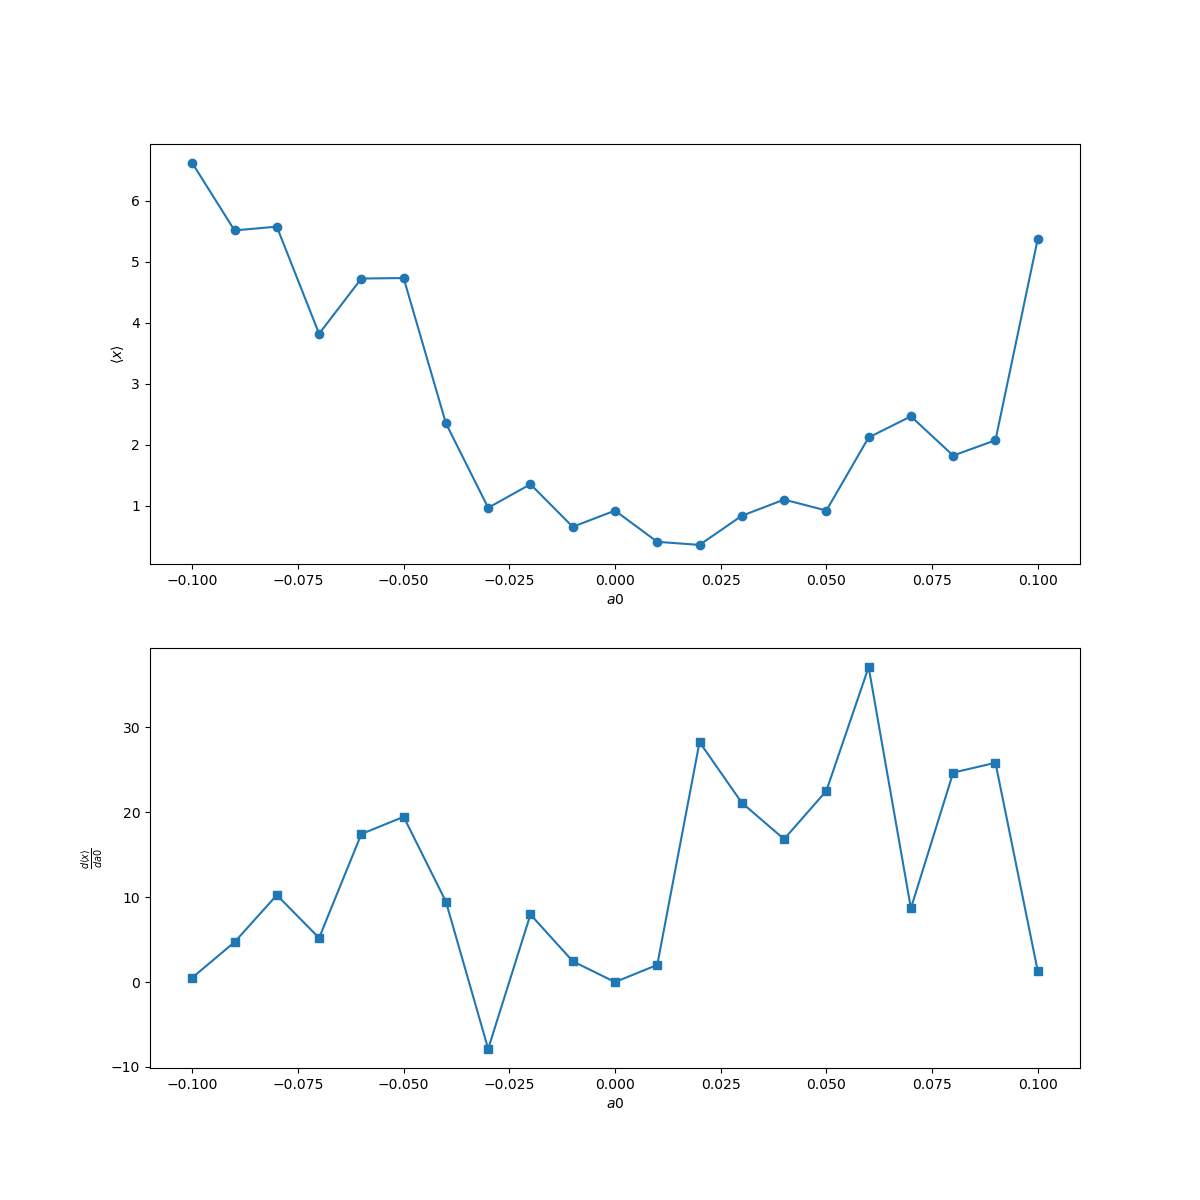
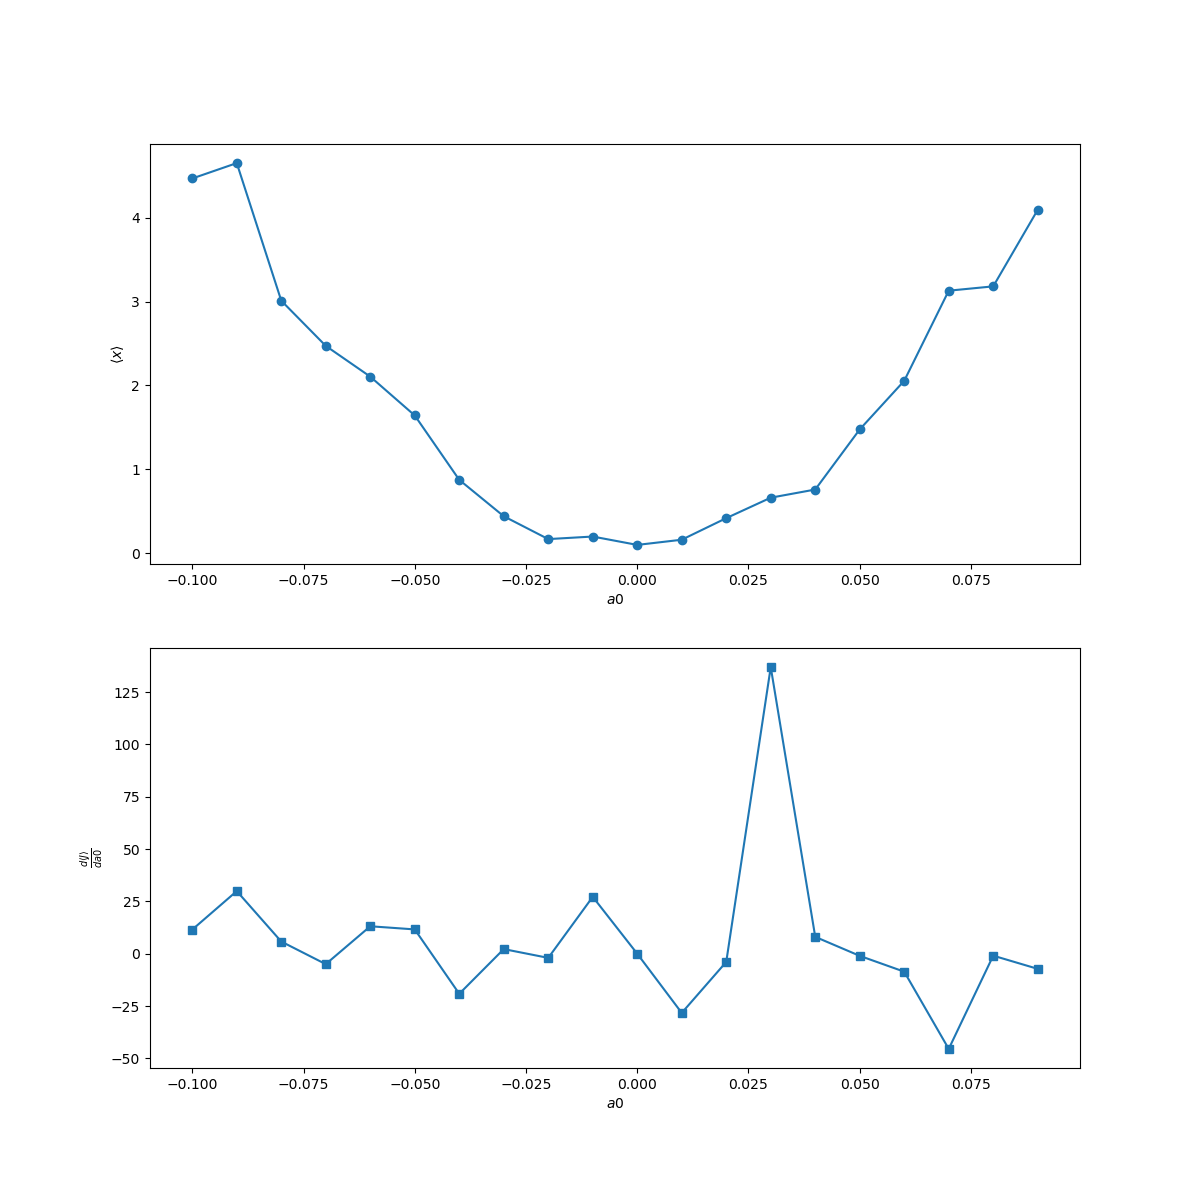
sympy update

diff --git a/guiding_center.py b/guiding_center.py
@@ -1,6 +1,7 @@
 import jax
 import jax.numpy as jnp
 import diffrax
+import numpy as np
 
 def B(x, y, z, params):
     return 1.0 + params["a0"] * jnp.sqrt(x) * jnp.cos(y - params["a1"] * z)
@@ -30,10 +31,13 @@ params = {
     "G": 1.0,
     "lambda": 0.1
 }
-
 term = diffrax.ODETerm(ode_system)
 solver = diffrax.Tsit5()
-y0 = jnp.array([1.0, 0.0, 0.0])
-t0, t1 = 0.0, 20.0
-sol = diffrax.diffeqsolve(term, solver, t0=t0, t1=t1, dt0=1e-3, y0=y0, args=params, max_steps=100000)
+x = 0.1 * np.random.rand()  
+y = 2.0 * np.pi * np.random.rand()
+z = 2.0 * np.pi * np.random.rand()
+y0 = jnp.array([x, y, z])
+t0, t1 = 0, 1
+saveat = diffrax.SaveAt(ts=jnp.linspace(t0, t1, 50))
+sol = diffrax.diffeqsolve(term, solver, t0=t0, t1=t1, dt0=1e-3, y0=y0, args=params, max_steps=100000, saveat = saveat)
 print(sol.ys)

diff --git a/app_gc.py b/app_gc.py
@@ -5,7 +5,7 @@ matplotlib.use('Agg')
 import matplotlib.pyplot as plt
 from nilss import *
 
-np.random.seed(20250220)
+np.random.seed(20250301)
 
 a0_global = 0.1
 a1_global = 1.0
@@ -184,9 +184,9 @@ def main():
     nseg_ps = 10
     nc = 3
     nus = 2
-    par = "a1"
-    par_lb = 0.9
-    par_ub = 1.1
+    par = "a0"
+    par_lb = -0.1
+    par_ub = 0.1
     step_size = 0.01
     par_arr = np.arange(par_lb, par_ub, step_size)
     J_arr = np.zeros(par_arr.shape)
@@ -197,7 +197,7 @@ def main():
         z = 2.0 * np.pi * np.random.rand()
         u0 = np.array([x, y, z])
 
-        print(par_value, u0)
+        print(f'{par}={par_value}, u0={u0}')
 
         J_val, dJdpar_val = nilss(dt, nseg, T_seg, nseg_ps, u0, nus, par, par_value, Euler, fJJu)
         J_arr[i] = J_val
